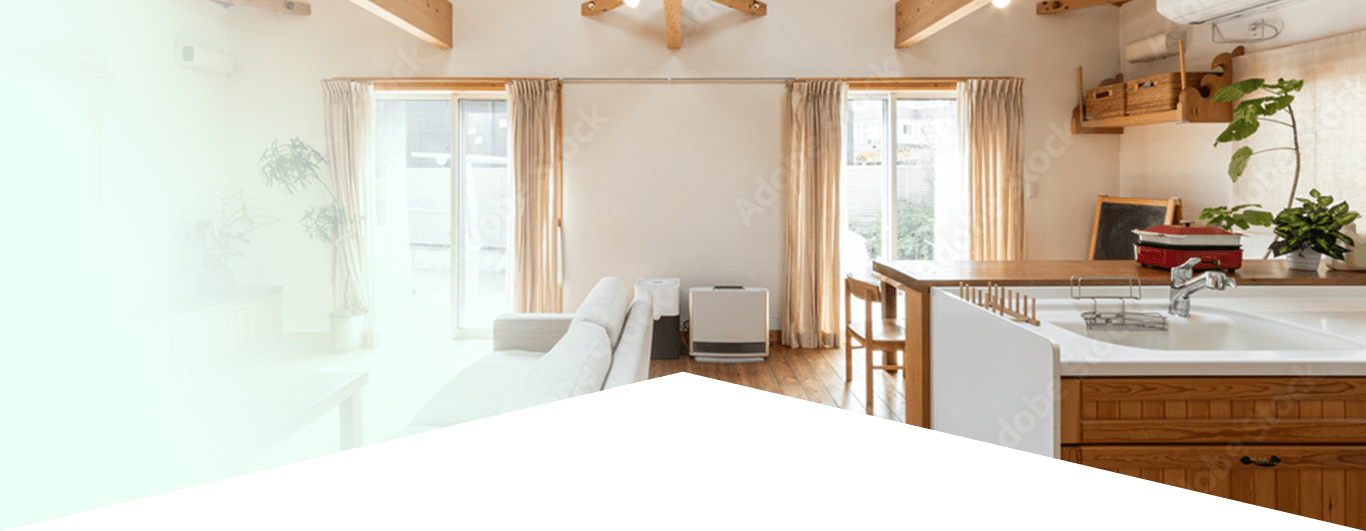
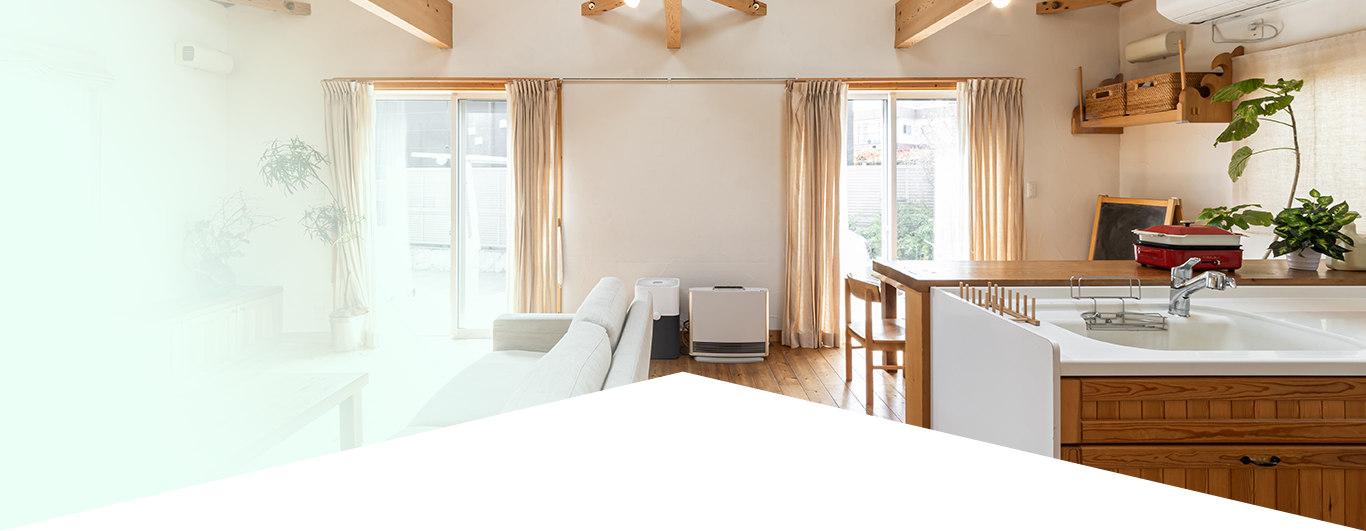
lineインスタリンク追加、MV差し替え

diff --git a/line.html b/line.html
@@ -202,7 +202,7 @@
               <div class="howto_box howto_box_sp">
                 <h3 class="howto_ttl">スマホの方</h3>
                 <p class="howto_cont">友だち追加ボタンを押す</p>
-                <p class="howto_img"><a href="#"><img src="images/line/line_sp.png" alt="画像：友達追加" loading="lazy" width="250" height="84"></a></p>
+                <p class="howto_img"><a href="https://lin.ee/1FMk66L" target="_blank"><img src="images/line/line_sp.png" alt="画像：友達追加" loading="lazy" width="250" height="84"></a></p>
               </div>
             </div>
 

diff --git a/contact.html b/contact.html
@@ -229,7 +229,7 @@
               <div class="consul_block__item">
                 <h4 class="consul_block__head">スマホの方</h4>
                 <p class="consul_block__txt">友だち追加ボタンを押す</p>
-                <a class="consul_block__btn" href=""><img src="images/contact/consul_btn01.png" alt="友だちに追加" loading="lazy"></a>
+                <a class="consul_block__btn" href="https://lin.ee/1FMk66L" target="_blank"><img src="images/contact/consul_btn01.png" alt="友だちに追加" loading="lazy"></a>
               </div>
             <!-- / .consul_block --></div>
 

diff --git a/scss/contact.scss b/scss/contact.scss
@@ -111,6 +111,7 @@
     picture{
       img{
         margin: 0 auto;
+        width: 140px;
         @include mq(sp) {
           width: #{vw(120)};
           height: auto;

diff --git a/css/contact.css b/css/contact.css
@@ -160,6 +160,7 @@
 
 .consul_block__item picture img {
   margin: 0 auto;
+  width: 140px;
 }
 
 @media screen and (max-width: 767px) {

diff --git a/css/qa.css b/css/qa.css
@@ -58,4 +58,3 @@
 .page-faq .faq_wrap .cont_a a:hover {
   color: #2fa876;
 }
-/*# sourceMappingURL=qa.css.map */

diff --git a/WP/sksystem/footer.php b/WP/sksystem/footer.php
@@ -68,7 +68,7 @@
           </a>
         </li>
         <li>
-          <a href="#">
+          <a href="https://www.instagram.com/sk.system1001" target="_blank">
             <picture>
               <source media="(max-width: 767px)" srcset="<?php bloginfo('template_directory'); ?>/images/common/sp/btn_instagram.png">
               <img src="<?php bloginfo('template_directory'); ?>/images/common/btn_instagram.png" alt="INSTAGRAM" loading="lazy">
@@ -121,17 +121,17 @@
           <div class="footer-sns">
             <ul>
               <li>
-                <a href="#">
+                <a href="#" target="_blank">
                   <img src="<?php bloginfo('template_directory'); ?>/images/common/icon_facebook.png" alt="FACEBOOK" loading="lazy">
                 </a>
               </li>
               <li>
-                <a href="#">
+                <a href="https://www.instagram.com/sk.system1001" target="_blank">
                   <img src="<?php bloginfo('template_directory'); ?>/images/common/icon_instagram.png" alt="INSTAGRAM" loading="lazy">
                 </a>
               </li>
               <li>
-                <a href="#">
+                <a href="https://lin.ee/1FMk66L" target="_blank">
                   <img src="<?php bloginfo('template_directory'); ?>/images/common/icon_line.png" alt="LINE" loading="lazy">
                 </a>
               </li>
